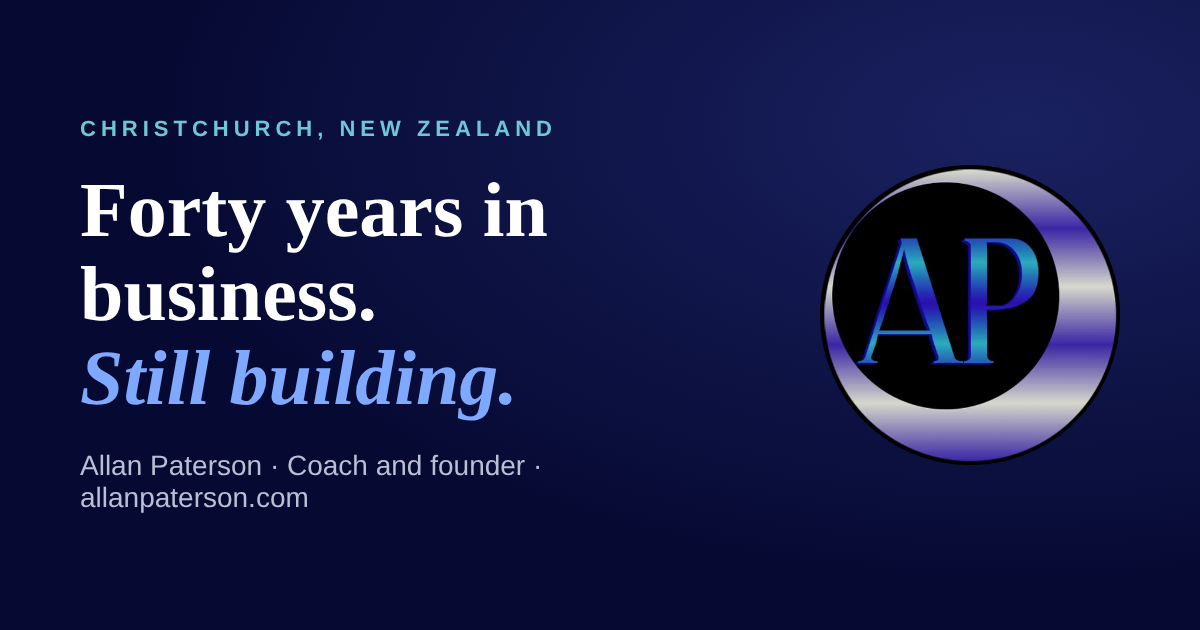
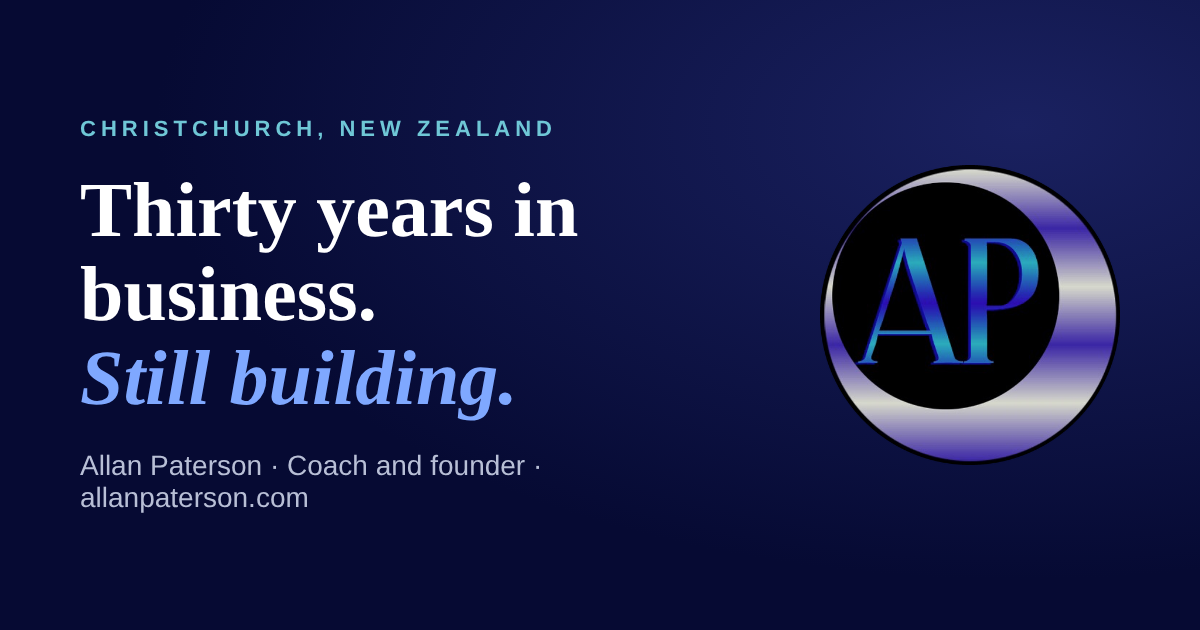
Change 40+ years to 30+ years
Claude-Session: https://claude.ai/code/session_016r6ywiZJj1cY9dS2n1yBzE

Changed region(s): [[0.0617, 0.2714, 0.4933, 0.4222]]

diff --git a/index.html b/index.html
@@ -4,11 +4,11 @@
   <meta charset="utf-8">
   <meta name="viewport" content="width=device-width, initial-scale=1">
   <title>Allan Paterson | Business Builder, Coach and Founder · Christchurch, NZ</title>
-  <meta name="description" content="Allan Paterson: 40+ years in B2B sales across New Zealand and Australia. Coach and founder of Build Your Own Legacy, VitalCalc and RecruitBot NZ, based in Christchurch.">
+  <meta name="description" content="Allan Paterson: 30+ years in B2B sales across New Zealand and Australia. Coach and founder of Build Your Own Legacy, VitalCalc and RecruitBot NZ, based in Christchurch.">
   <link rel="canonical" href="https://allanpaterson.com/">
   <meta property="og:type" content="website">
   <meta property="og:title" content="Allan Paterson">
-  <meta property="og:description" content="40+ years in business. Coach and founder of Build Your Own Legacy, VitalCalc and RecruitBot NZ.">
+  <meta property="og:description" content="30+ years in business. Coach and founder of Build Your Own Legacy, VitalCalc and RecruitBot NZ.">
   <meta property="og:url" content="https://allanpaterson.com/">
   <meta property="og:image" content="https://allanpaterson.com/assets/og.png">
   <meta name="twitter:card" content="summary_large_image">
@@ -18,7 +18,7 @@
   <link rel="preconnect" href="https://fonts.googleapis.com">
   <link rel="preconnect" href="https://fonts.gstatic.com" crossorigin>
   <link href="https://fonts.googleapis.com/css2?family=Fraunces:ital,opsz,wght@0,9..144,600;1,9..144,600&family=Inter:wght@400;500;600;700&display=swap" rel="stylesheet">
-  <link rel="stylesheet" href="/assets/style.css?v=2">
+  <link rel="stylesheet" href="/assets/style.css?v=3">
   <script type="application/ld+json">{"@context":"https://schema.org","@type":"Person","name":"Allan Paterson","url":"https://allanpaterson.com/","jobTitle":"Business coach and founder","address":{"@type":"PostalAddress","addressLocality":"Christchurch","addressCountry":"NZ"},"sameAs":["https://buildyourownlegacynow.com/","https://vitalcalc.net/","https://recruitbotnz.com/"]}</script>
 </head>
 <body>
@@ -39,7 +39,7 @@
       <div class="wrap hero-grid">
         <div>
           <span class="eyebrow">Christchurch, New Zealand</span>
-          <h1>Forty years in business. <em>Still building.</em></h1>
+          <h1>Thirty years in business. <em>Still building.</em></h1>
           <p class="lede">I'm Allan Paterson: B2B sales leader, coach and founder. I help ambitious people over 40 build businesses and lives worth handing on, and I'm building three ventures of my own to prove it can be done.</p>
           <div class="ctas">
             <a class="btn" href="#contact">Book a free strategy call</a>
@@ -56,7 +56,7 @@
 
     <div class="wrap">
       <div class="stats">
-        <div class="stat"><b>40+</b><span>years in B2B sales</span></div>
+        <div class="stat"><b>30+</b><span>years in B2B sales</span></div>
         <div class="stat"><b>13</b><span>years running my own businesses</span></div>
         <div class="stat"><b>NZ &amp; AU</b><span>territories, accounts and teams</span></div>
         <div class="stat"><b>3</b><span>ventures in progress</span></div>
@@ -70,7 +70,7 @@
           <h2>Built in the field, not in a classroom.</h2>
         </div>
         <div class="prose">
-          <p>For more than 40 years I've worked in B2B sales across New Zealand and Australia: territory management, key accounts and business development. For 13 of those years I ran my own businesses, with all the highs, setbacks and lessons that come with it.</p>
+          <p>For more than 30 years I've worked in B2B sales across New Zealand and Australia: territory management, key accounts and business development. For 13 of those years I ran my own businesses, with all the highs, setbacks and lessons that come with it.</p>
           <p>I've learned that what holds most people back after 40 isn't ability. It's clarity, a plan, and someone in their corner who has actually been there.</p>
           <p>Today I coach ambitious professionals and business owners over 40, and I build my own ventures in health and recruitment. I share what works, and what doesn't, as I go.</p>
         </div>
